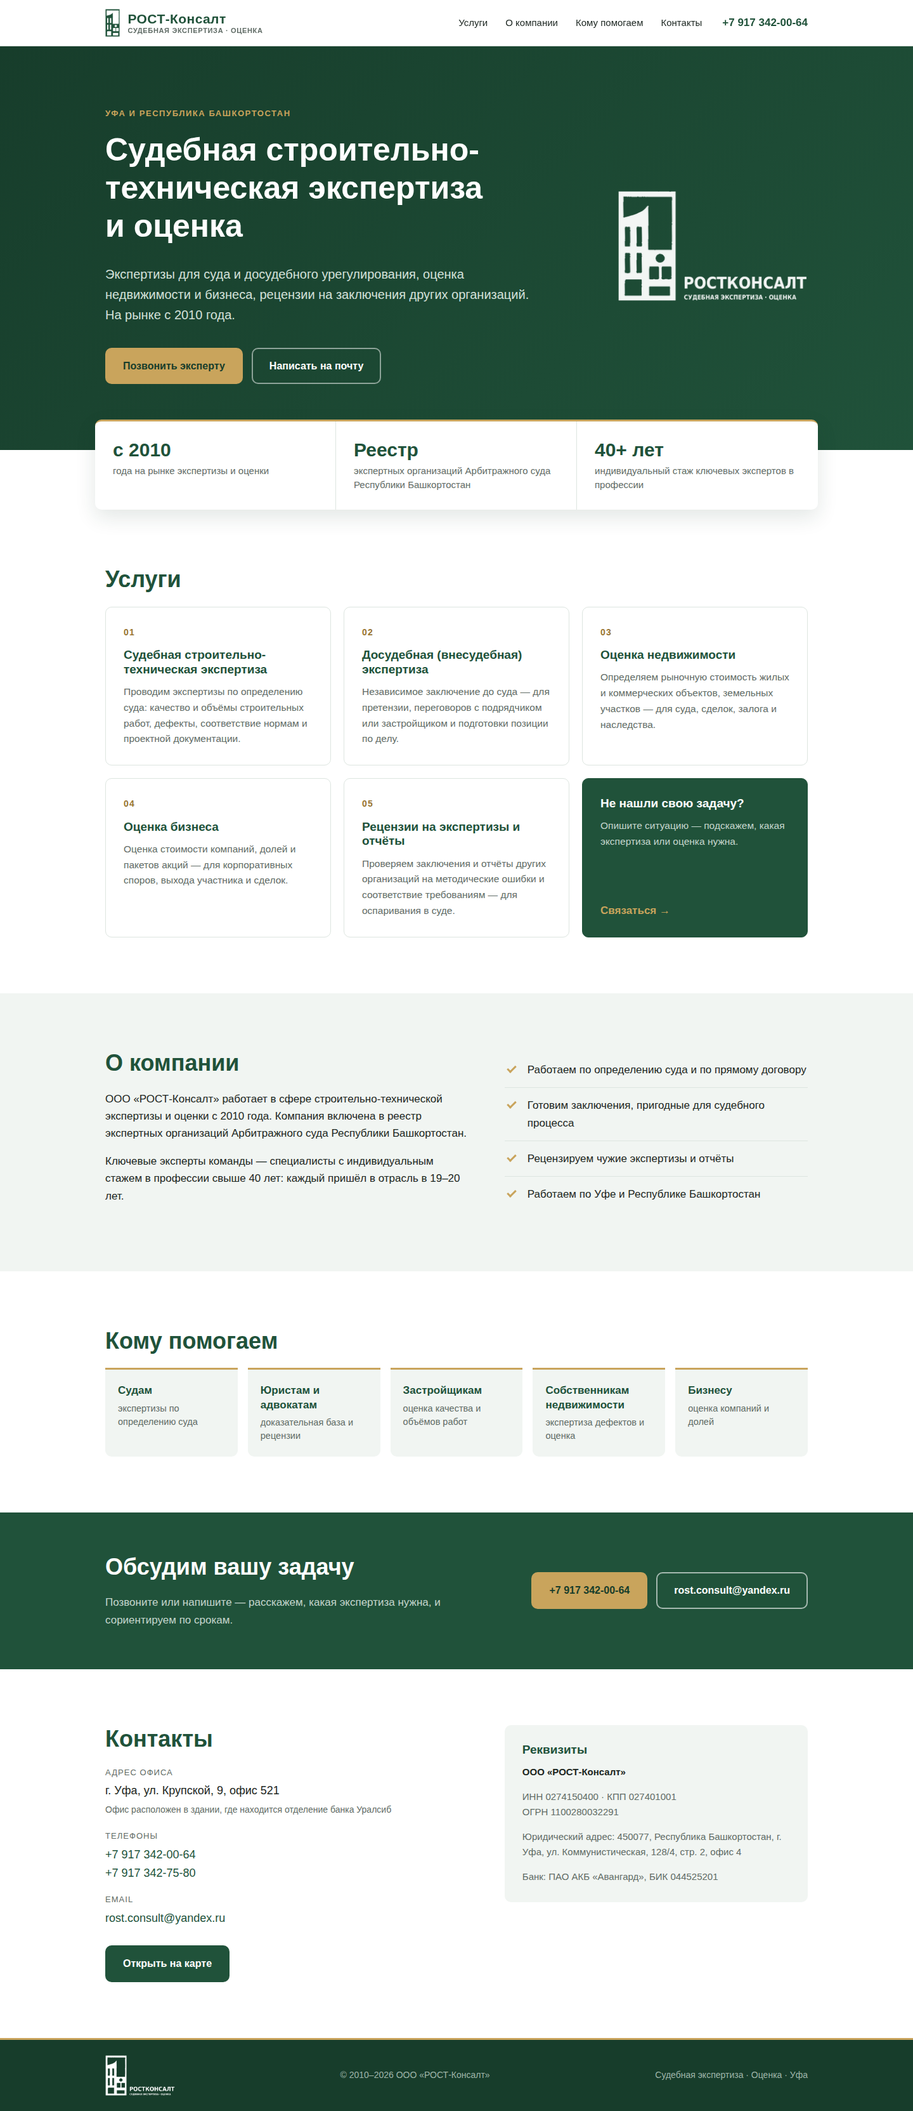
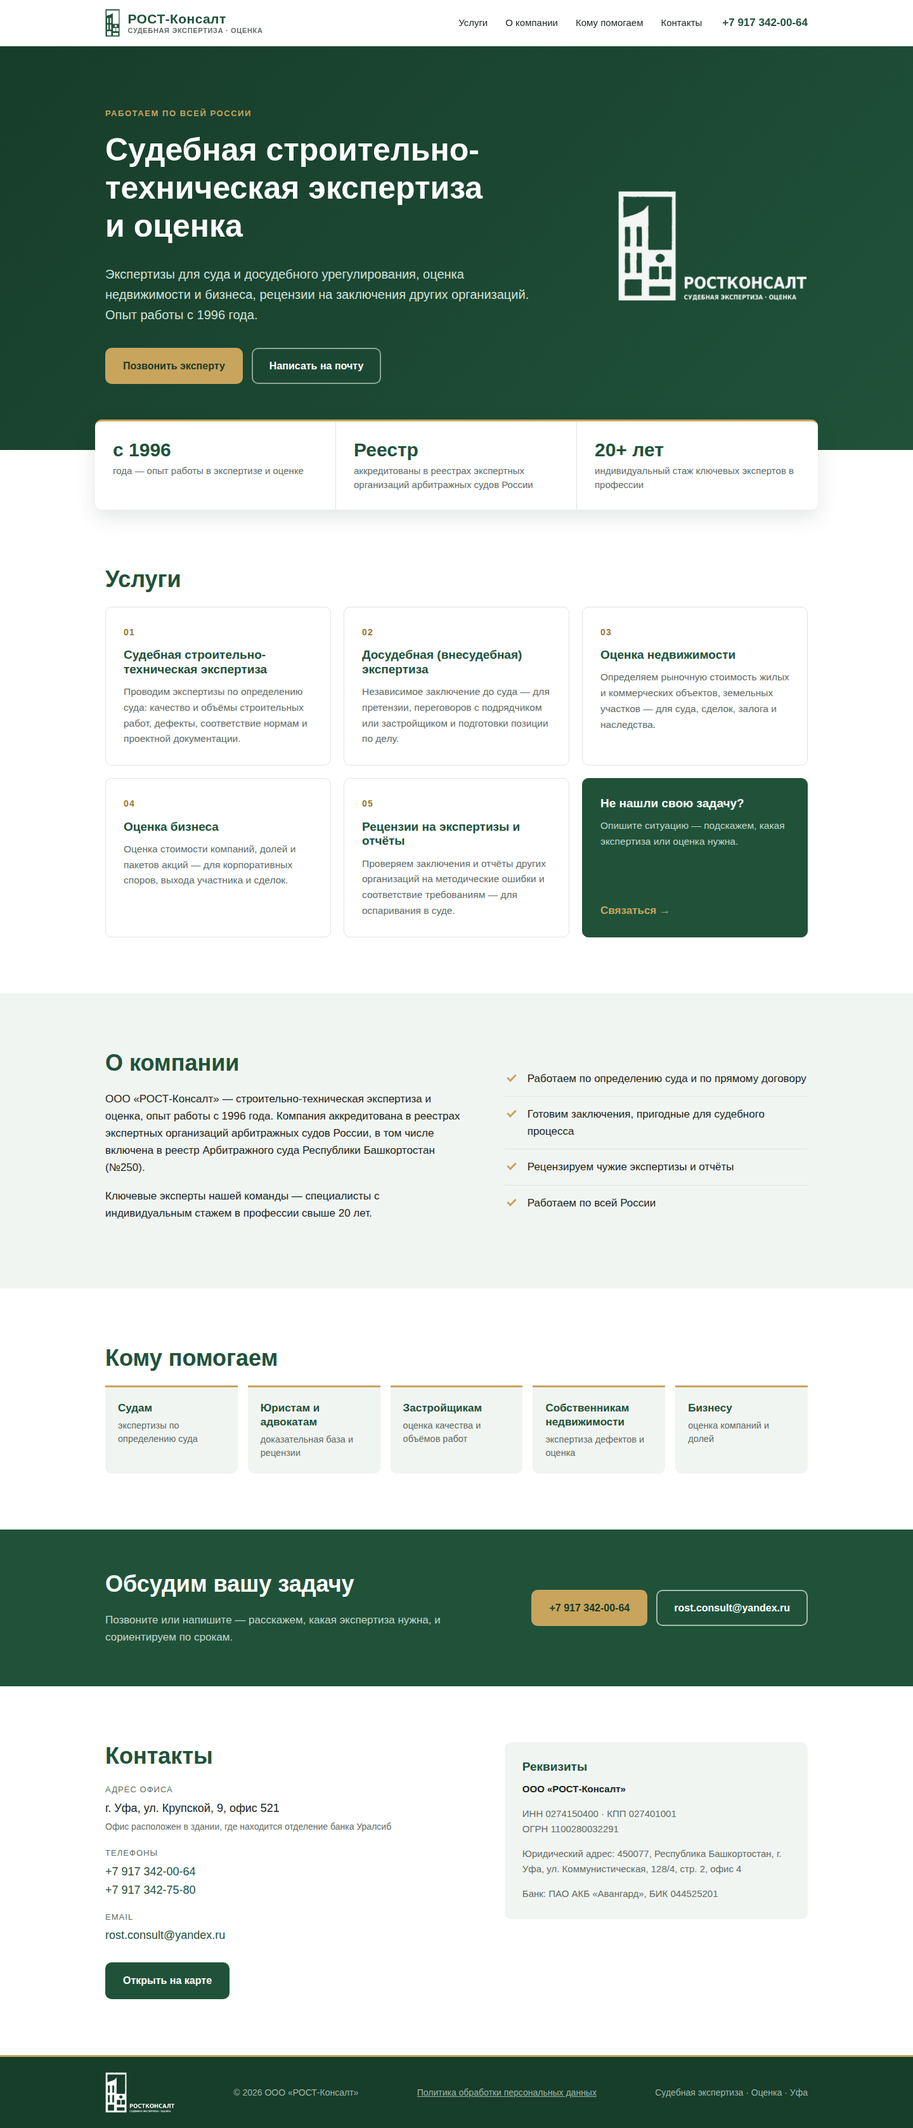
Правки итерации 1: опыт с 1996, стаж 20+, реестры АС России, вся Россия, политика ПДн
Claude-Session: https://claude.ai/code/session_014kz7abNveV5Q39hqwxJt4z

diff --git a/privacy.html b/privacy.html
@@ -1,0 +1,91 @@
+<!DOCTYPE html>
+<html lang="ru">
+<head>
+  <meta charset="UTF-8">
+  <meta name="viewport" content="width=device-width, initial-scale=1">
+  <title>Политика обработки персональных данных — РОСТ-Консалт</title>
+  <meta name="description" content="Политика ООО «РОСТ-Консалт» в отношении обработки персональных данных.">
+  <link rel="icon" href="assets/favicon.png" type="image/png">
+  <link rel="stylesheet" href="styles.css">
+</head>
+<body>
+
+  <header class="header">
+    <div class="container header__inner">
+      <a href="index.html" class="header__logo" aria-label="РОСТ-Консалт — на главную">
+        <img src="assets/icon-green.png" alt="" width="24" height="45">
+        <span class="header__brand">
+          <span class="header__name">РОСТ-Консалт</span>
+          <span class="header__tagline">Судебная экспертиза · Оценка</span>
+        </span>
+      </a>
+      <a href="tel:+79173420064" class="header__phone" style="margin-left:auto">+7 917 342-00-64</a>
+    </div>
+  </header>
+
+  <main class="policy">
+    <div class="container">
+      <h1>Политика обработки персональных данных</h1>
+      <p class="policy__meta">Редакция от 25.09.2026</p>
+
+      <h2>1. Общие положения</h2>
+      <p>Настоящая Политика определяет порядок обработки и меры по обеспечению безопасности персональных данных пользователей сайта rost-consult.ru и лиц, обращающихся в компанию по телефону или электронной почте, указанным на сайте. Политика разработана в соответствии с Федеральным законом от 27.07.2006 № 152-ФЗ «О персональных данных».</p>
+
+      <h2>2. Оператор персональных данных</h2>
+      <p>Общество с ограниченной ответственностью «РОСТ-Консалт»<br>
+        ИНН 0274150400, ОГРН 1100280032291<br>
+        Юридический адрес: 450077, Республика Башкортостан, г. Уфа, ул. Коммунистическая, 128/4, стр. 2, офис 4<br>
+        Email: <a href="mailto:rost.consult@yandex.ru">rost.consult@yandex.ru</a></p>
+
+      <h2>3. Какие данные мы обрабатываем</h2>
+      <ul>
+        <li>фамилия, имя, отчество (или имя);</li>
+        <li>номер телефона;</li>
+        <li>адрес электронной почты;</li>
+        <li>иные сведения, которые пользователь сообщает по собственной инициативе при обращении (описание задачи, приложенные документы).</li>
+      </ul>
+      <p>Оператор не обрабатывает специальные категории персональных данных (сведения о здоровье, расовой и национальной принадлежности, политических и религиозных взглядах) и биометрические персональные данные.</p>
+
+      <h2>4. Цели обработки</h2>
+      <ul>
+        <li>рассмотрение и обработка обращений и заявок;</li>
+        <li>обратная связь с пользователем, консультирование по услугам;</li>
+        <li>подготовка и заключение договора на оказание услуг по инициативе пользователя.</li>
+      </ul>
+
+      <h2>5. Правовые основания</h2>
+      <p>Обработка осуществляется на основании согласия субъекта персональных данных (п. 1 ч. 1 ст. 6 Федерального закона № 152-ФЗ), а также в целях заключения и исполнения договора, стороной которого является субъект персональных данных (п. 5 ч. 1 ст. 6 Федерального закона № 152-ФЗ).</p>
+
+      <h2>6. Способы и действия с данными</h2>
+      <p>Обработка осуществляется с использованием средств автоматизации и без них и включает: сбор, запись, систематизацию, накопление, хранение, уточнение (обновление, изменение), использование, передачу (в случаях, предусмотренных законодательством Российской Федерации), обезличивание, блокирование, удаление и уничтожение персональных данных.</p>
+      <p>Оператор не передаёт персональные данные третьим лицам, за исключением случаев, предусмотренных законодательством Российской Федерации.</p>
+
+      <h2>7. Меры по защите данных</h2>
+      <p>Оператор принимает необходимые правовые, организационные и технические меры для защиты персональных данных от неправомерного или случайного доступа, уничтожения, изменения, блокирования, копирования, распространения, а также от иных неправомерных действий.</p>
+
+      <h2>8. Срок обработки и отзыв согласия</h2>
+      <p>Согласие на обработку персональных данных действует до момента его отзыва. Субъект персональных данных вправе отозвать согласие, направив письменное заявление на адрес электронной почты <a href="mailto:rost.consult@yandex.ru">rost.consult@yandex.ru</a>. После получения отзыва оператор прекращает обработку и уничтожает персональные данные в сроки, установленные Федеральным законом № 152-ФЗ, если иное не предусмотрено законодательством Российской Федерации.</p>
+
+      <h2>9. Права субъекта персональных данных</h2>
+      <p>Субъект персональных данных вправе получать информацию об обработке своих персональных данных, требовать их уточнения, блокирования или уничтожения, если данные являются неполными, устаревшими, неточными или обрабатываются незаконно, а также обжаловать действия оператора в уполномоченном органе по защите прав субъектов персональных данных или в судебном порядке.</p>
+
+      <h2>10. Cookie и сервисы аналитики</h2>
+      <p>Сайт не использует файлы cookie и сервисы веб-аналитики для сбора персональных данных.</p>
+
+      <h2>11. Заключительные положения</h2>
+      <p>Оператор вправе вносить изменения в настоящую Политику. Актуальная редакция всегда доступна на этой странице.</p>
+
+      <a href="index.html" class="btn btn--primary policy__back">← На главную</a>
+    </div>
+  </main>
+
+  <footer class="footer">
+    <div class="container footer__inner">
+      <img src="assets/logo-white.png" alt="РОСТ-Консалт" width="137" height="80" class="footer__logo">
+      <span>© 2026 ООО «РОСТ-Консалт»</span>
+      <a href="privacy.html" class="footer__link">Политика обработки персональных данных</a>
+    </div>
+  </footer>
+
+</body>
+</html>

diff --git a/index.html b/index.html
@@ -4,7 +4,7 @@
   <meta charset="UTF-8">
   <meta name="viewport" content="width=device-width, initial-scale=1">
   <title>РОСТ-Консалт — судебная строительно-техническая экспертиза и оценка в Уфе</title>
-  <meta name="description" content="ООО «РОСТ-Консалт»: судебная и досудебная строительно-техническая экспертиза, оценка недвижимости и бизнеса, рецензии на экспертизы. Уфа и Республика Башкортостан. На рынке с 2010 года.">
+  <meta name="description" content="ООО «РОСТ-Консалт»: судебная и досудебная строительно-техническая экспертиза, оценка недвижимости и бизнеса, рецензии на экспертизы. Опыт работы с 1996 года. Работаем по всей России.">
   <link rel="icon" href="assets/favicon.png" type="image/png">
   <link rel="stylesheet" href="styles.css">
 </head>
@@ -37,9 +37,9 @@
     <section class="hero">
       <div class="container hero__inner">
         <div class="hero__text">
-        <p class="eyebrow">Уфа и Республика Башкортостан</p>
+        <p class="eyebrow">Работаем по всей России</p>
         <h1>Судебная строительно-техническая экспертиза и&nbsp;оценка</h1>
-        <p class="hero__lead">Экспертизы для суда и досудебного урегулирования, оценка недвижимости и бизнеса, рецензии на заключения других организаций. На рынке с 2010 года.</p>
+        <p class="hero__lead">Экспертизы для суда и досудебного урегулирования, оценка недвижимости и бизнеса, рецензии на заключения других организаций. Опыт работы с 1996 года.</p>
         <div class="hero__actions">
           <a href="tel:+79173420064" class="btn btn--primary">Позвонить эксперту</a>
           <a href="mailto:rost.consult@yandex.ru" class="btn btn--ghost">Написать на почту</a>
@@ -53,15 +53,15 @@
     <section class="facts" aria-label="Ключевые факты">
       <div class="container facts__grid">
         <div class="fact">
-          <span class="fact__num">с 2010</span>
-          <span class="fact__text">года на рынке экспертизы и оценки</span>
+          <span class="fact__num">с 1996</span>
+          <span class="fact__text">года — опыт работы в экспертизе и оценке</span>
         </div>
         <div class="fact">
           <span class="fact__num">Реестр</span>
-          <span class="fact__text">экспертных организаций Арбитражного суда Республики Башкортостан</span>
+          <span class="fact__text">аккредитованы в реестрах экспертных организаций арбитражных судов России</span>
         </div>
         <div class="fact">
-          <span class="fact__num">40+ лет</span>
+          <span class="fact__num">20+ лет</span>
           <span class="fact__text">индивидуальный стаж ключевых экспертов в профессии</span>
         </div>
       </div>
@@ -111,14 +111,14 @@
       <div class="container about">
         <div>
           <h2>О компании</h2>
-          <p>ООО «РОСТ-Консалт» работает в сфере строительно-технической экспертизы и оценки с 2010 года. Компания включена в реестр экспертных организаций Арбитражного суда Республики Башкортостан.</p>
-          <p>Ключевые эксперты команды — специалисты с индивидуальным стажем в профессии свыше 40 лет: каждый пришёл в отрасль в 19–20 лет.</p>
+          <p>ООО «РОСТ-Консалт» — строительно-техническая экспертиза и оценка, опыт работы с 1996 года. Компания аккредитована в реестрах экспертных организаций арбитражных судов России, в том числе включена в реестр Арбитражного суда Республики Башкортостан (№250).</p>
+          <p>Ключевые эксперты нашей команды — специалисты с индивидуальным стажем в профессии свыше 20 лет.</p>
         </div>
         <ul class="checklist">
           <li>Работаем по определению суда и по прямому договору</li>
           <li>Готовим заключения, пригодные для судебного процесса</li>
           <li>Рецензируем чужие экспертизы и отчёты</li>
-          <li>Работаем по Уфе и Республике Башкортостан</li>
+          <li>Работаем по всей России</li>
         </ul>
       </div>
     </section>
@@ -181,7 +181,8 @@
   <footer class="footer">
     <div class="container footer__inner">
       <img src="assets/logo-white.png" alt="РОСТ-Консалт" width="137" height="80" class="footer__logo">
-      <span>© 2010–2026 ООО «РОСТ-Консалт»</span>
+      <span>© 2026 ООО «РОСТ-Консалт»</span>
+      <a href="privacy.html" class="footer__link">Политика обработки персональных данных</a>
       <span>Судебная экспертиза · Оценка · Уфа</span>
     </div>
   </footer>

diff --git a/styles.css b/styles.css
@@ -330,3 +330,17 @@ p { margin: 0 0 1em; }
   .clients { grid-template-columns: 1fr; }
   .contacts__list dd { font-size: 17px; }
 }
+
+/* ---------- Ссылка на политику в подвале ---------- */
+.footer__link { color: #9fb6aa; }
+.footer__link:hover { color: var(--gold); }
+
+/* ---------- Страница политики ---------- */
+.policy { padding: 64px 0 88px; }
+.policy .container { max-width: 820px; }
+.policy h1 { color: var(--green); font-size: clamp(26px, 4vw, 38px); }
+.policy h2 { font-size: 21px; margin-top: 36px; }
+.policy ul { padding-left: 22px; margin: 0 0 1em; }
+.policy li { margin-bottom: 6px; }
+.policy__meta { color: var(--muted); font-size: 15px; }
+.policy__back { display: inline-block; margin-top: 32px; }
